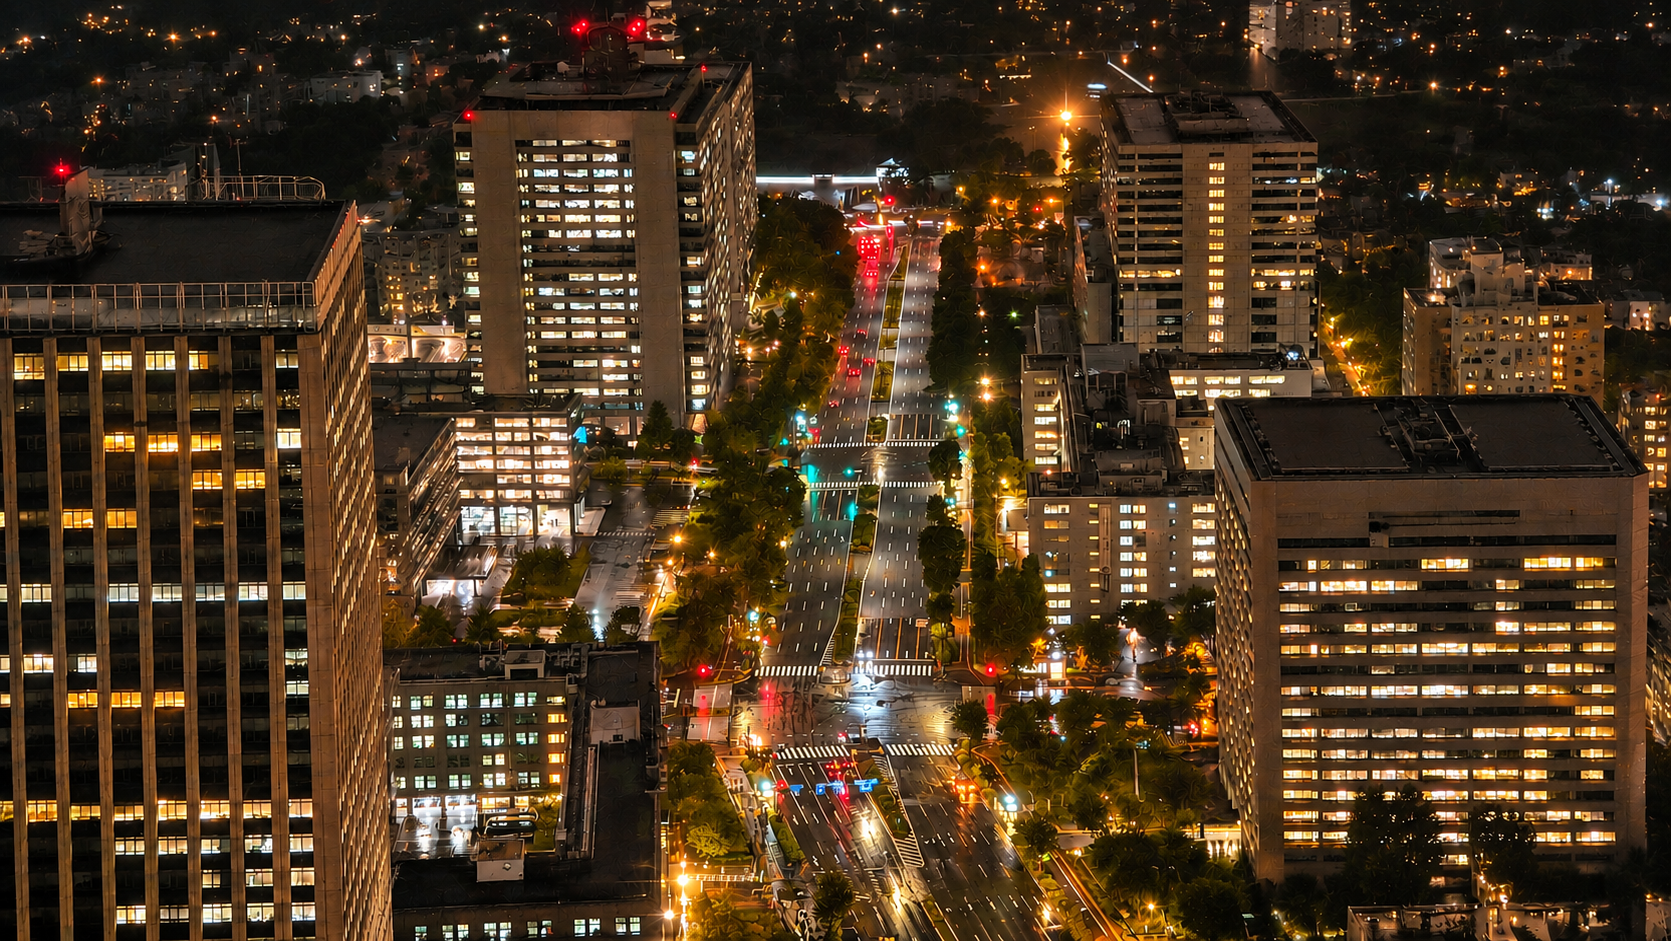
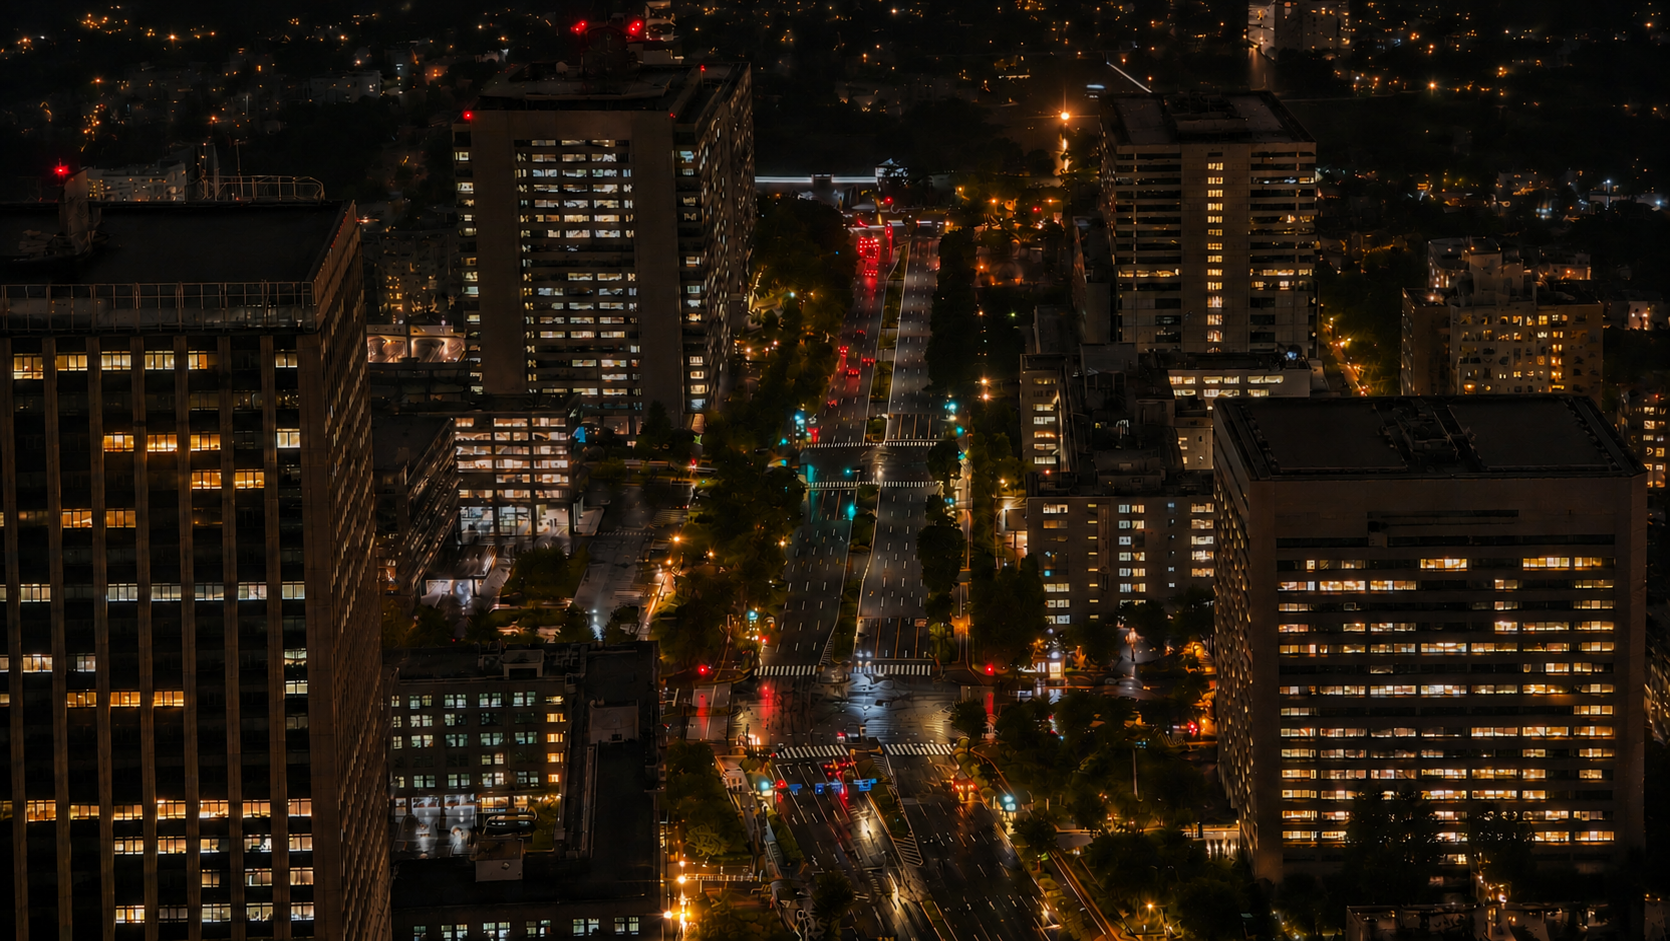
add raindrop

diff --git a/script.js b/script.js
@@ -1,11 +1,14 @@
 const right = document.querySelector("#right");
 const toggle = document.querySelector("#toggle");
-const canvases = document.querySelectorAll("canvas");
+const canvases = document.querySelectorAll(".fog-canvas");
 const ambience = document.querySelector("#ambience");
 
 const welcome = document.querySelector("#welcome");
 const enter = document.querySelector("#enter");
 const main = document.querySelector("#main");
+
+const rainCanvas = document.querySelector("#rain-canvas");
+const rainCtx = rainCanvas.getContext("2d");
 
 let opened = false;
 let audioStarted = false;
@@ -60,12 +63,12 @@ function enterRoom() {
   entered = true;
 
   startAudio();
-
   fadeVolume(0.45, 1800);
 
   main.classList.add("visible");
-
   welcome.classList.add("hidden");
+
+  startRain();
 
   setTimeout(() => {
     welcome.style.display = "none";
@@ -97,6 +100,108 @@ document
   .querySelector("#handle")
   .addEventListener("click", switchWindow);
 
+let raindrops = [];
+let rainRunning = false;
+let rainWidth = 0;
+let rainHeight = 0;
+let lastRainTime = 0;
+
+function createRaindrop() {
+  return {
+    x: Math.random() * rainWidth,
+    y: Math.random() * rainHeight,
+    length: 8 + Math.random() * 17,
+    speed: 190 + Math.random() * 220,
+    opacity: 0.12 + Math.random() * 0.25,
+    width: 0.5 + Math.random() * 0.45,
+    drift: -0.12 - Math.random() * 0.2
+  };
+}
+
+function resizeRain() {
+  const rect = rainCanvas.getBoundingClientRect();
+  const dpr = Math.min(window.devicePixelRatio || 1, 2);
+
+  rainWidth = rect.width;
+  rainHeight = rect.height;
+
+  rainCanvas.width = Math.round(rainWidth * dpr);
+  rainCanvas.height = Math.round(rainHeight * dpr);
+
+  rainCtx.setTransform(dpr, 0, 0, dpr, 0, 0);
+
+  raindrops = Array.from(
+    { length: 190 },
+    createRaindrop
+  );
+}
+
+function drawRain(time) {
+  if (!rainRunning) return;
+
+  const delta = lastRainTime
+    ? Math.min((time - lastRainTime) / 1000, 0.05)
+    : 0.016;
+
+  lastRainTime = time;
+
+  rainCtx.clearRect(0, 0, rainWidth, rainHeight);
+
+  const intensity = opened ? 1.35 : 1;
+
+  rainCtx.lineCap = "round";
+
+  raindrops.forEach(drop => {
+    drop.y += drop.speed * delta;
+    drop.x += drop.drift * drop.speed * delta;
+
+    if (drop.y > rainHeight + drop.length) {
+      drop.y = -drop.length;
+      drop.x = Math.random() * rainWidth;
+    }
+
+    if (drop.x < -20) {
+      drop.x = rainWidth + 10;
+    }
+
+    rainCtx.beginPath();
+
+    rainCtx.strokeStyle =
+      `rgba(205, 219, 228, ${Math.min(
+        drop.opacity * intensity,
+        0.65
+      )})`;
+
+    rainCtx.lineWidth = drop.width;
+
+    rainCtx.moveTo(drop.x, drop.y);
+
+    rainCtx.lineTo(
+      drop.x + drop.drift * drop.length,
+      drop.y + drop.length
+    );
+
+    rainCtx.stroke();
+  });
+
+  requestAnimationFrame(drawRain);
+}
+
+function startRain() {
+  if (rainRunning) return;
+
+  resizeRain();
+  rainRunning = true;
+  lastRainTime = 0;
+
+  requestAnimationFrame(drawRain);
+}
+
+window.addEventListener("resize", () => {
+  if (rainRunning) resizeRain();
+});
+
+
 
 function createFog(canvas) {
   const w = 500;
@@ -110,14 +215,13 @@ function createFog(canvas) {
   ctx.globalCompositeOperation = "source-over";
   ctx.clearRect(0, 0, w, h);
 
-  ctx.fillStyle = "rgba(204, 213, 213, .72)";
+  ctx.fillStyle = "rgba(204, 213, 213, 0.48)";
   ctx.fillRect(0, 0, w, h);
 
-
-  for (let i = 0; i < 90; i++) {
+  for (let i = 0; i < 130; i++) {
     const x = Math.random() * w;
     const y = Math.random() * h;
-    const r = 20 + Math.random() * 110;
+    const r = 30 + Math.random() * 115;
 
     const gradient = ctx.createRadialGradient(
       x, y, 0,
@@ -126,16 +230,15 @@ function createFog(canvas) {
 
     gradient.addColorStop(
       0,
-      "rgba(255,255,255,.11)"
+      "rgba(235, 240, 239, 0.055)"
     );
 
     gradient.addColorStop(
       1,
-      "rgba(255,255,255,0)"
+      "rgba(235, 240, 239, 0)"
     );
 
     ctx.fillStyle = gradient;
-
     ctx.fillRect(
       x - r,
       y - r,
@@ -144,25 +247,69 @@ function createFog(canvas) {
     );
   }
 
+  const edgeGradient = ctx.createRadialGradient(
+    w / 2, h / 2, 100,
+    w / 2, h / 2, 470
+  );
+
+  edgeGradient.addColorStop(
+    0,
+    "rgba(225, 232, 231, 0)"
+  );
+
+  edgeGradient.addColorStop(
+    0.65,
+    "rgba(225, 232, 231, 0.06)"
+  );
+
+  edgeGradient.addColorStop(
+    1,
+    "rgba(225, 232, 231, 0.32)"
+  );
+
+  ctx.fillStyle = edgeGradient;
+  ctx.fillRect(0, 0, w, h);
+
+  for (let i = 0; i < 650; i++) {
+    const x = Math.random() * w;
+    const y = Math.random() * h;
+    const radius = 0.3 + Math.random() * 1.1;
+
+    ctx.beginPath();
+    ctx.arc(x, y, radius, 0, Math.PI * 2);
+
+    ctx.fillStyle =
+      `rgba(245, 248, 247, ${0.035 + Math.random() * 0.09})`;
+
+    ctx.fill();
+  }
+
   ctx.globalCompositeOperation = "destination-out";
 
   let drawing = false;
   let previous = null;
 
   function brush(x, y) {
+    const radius = 55;
+
     const gradient = ctx.createRadialGradient(
-      x, y, 5,
-      x, y, 48
+      x, y, 4,
+      x, y, radius
     );
 
     gradient.addColorStop(
       0,
-      "rgba(0,0,0,1)"
+      "rgba(0,0,0,0.95)"
     );
 
     gradient.addColorStop(
-      0.6,
-      "rgba(0,0,0,.8)"
+      0.45,
+      "rgba(0,0,0,0.85)"
+    );
+
+    gradient.addColorStop(
+      0.75,
+      "rgba(0,0,0,0.4)"
     );
 
     gradient.addColorStop(
@@ -173,10 +320,10 @@ function createFog(canvas) {
     ctx.fillStyle = gradient;
 
     ctx.fillRect(
-      x - 48,
-      y - 48,
-      96,
-      96
+      x - radius,
+      y - radius,
+      radius * 2,
+      radius * 2
     );
   }
 
@@ -199,7 +346,10 @@ function createFog(canvas) {
         y - previous.y
       );
 
-      const steps = Math.ceil(distance / 12);
+      const steps = Math.max(
+        1,
+        Math.ceil(distance / 8)
+      );
 
       for (let i = 1; i <= steps; i++) {
         const t = i / steps;
@@ -240,7 +390,6 @@ function createFog(canvas) {
     previous = null;
   };
 }
-
 
 canvases.forEach(createFog);
 

diff --git a/index.html b/index.html
@@ -1,3 +1,4 @@
+
 <!DOCTYPE html>
 <html lang="en">
 <head>
@@ -42,17 +43,20 @@
 
       <div class="city"></div>
 
+      <canvas id="rain-canvas" aria-hidden="true"></canvas>
+
       <div class="pane left">
         <div class="glass">
-          <canvas></canvas>
+          <canvas class="fog-canvas"></canvas>
         </div>
         <img src="images/window-left.png" alt="Left window">
       </div>
 
       <div class="pane right" id="right">
         <div class="glass">
-          <canvas></canvas>
+          <canvas class="fog-canvas"></canvas>
         </div>
+
         <img src="images/window-right.png" alt="Right window">
 
         <button
@@ -61,7 +65,7 @@
           aria-label="Toggle window">
         </button>
       </div>
-
+      
       <img
         class="frame"
         src="images/window-frame.png"
@@ -85,4 +89,3 @@
 
 </body>
 </html>
-

diff --git a/style.css b/style.css
@@ -157,6 +157,7 @@ main p {
   margin-bottom: 20px;
 }
 
+
 .scene {
   position: relative;
   width: 100%;
@@ -178,6 +179,23 @@ main p {
 
   filter: brightness(.82);
 }
+
+
+#rain-canvas {
+  position: absolute;
+
+  top: 6%;
+  bottom: 6%;
+  left: 12%;
+  right: 12%;
+
+  width: 76%;
+  height: 88%;
+
+  z-index: 1;
+  pointer-events: none;
+}
+
 
 .frame {
   position: absolute;
@@ -242,14 +260,13 @@ main p {
   right: 8.9%;
 }
 
-canvas {
+.fog-canvas {
   width: 100%;
   height: 100%;
   display: block;
   cursor: crosshair;
   touch-action: none;
 }
-
 
 
 .handle {
